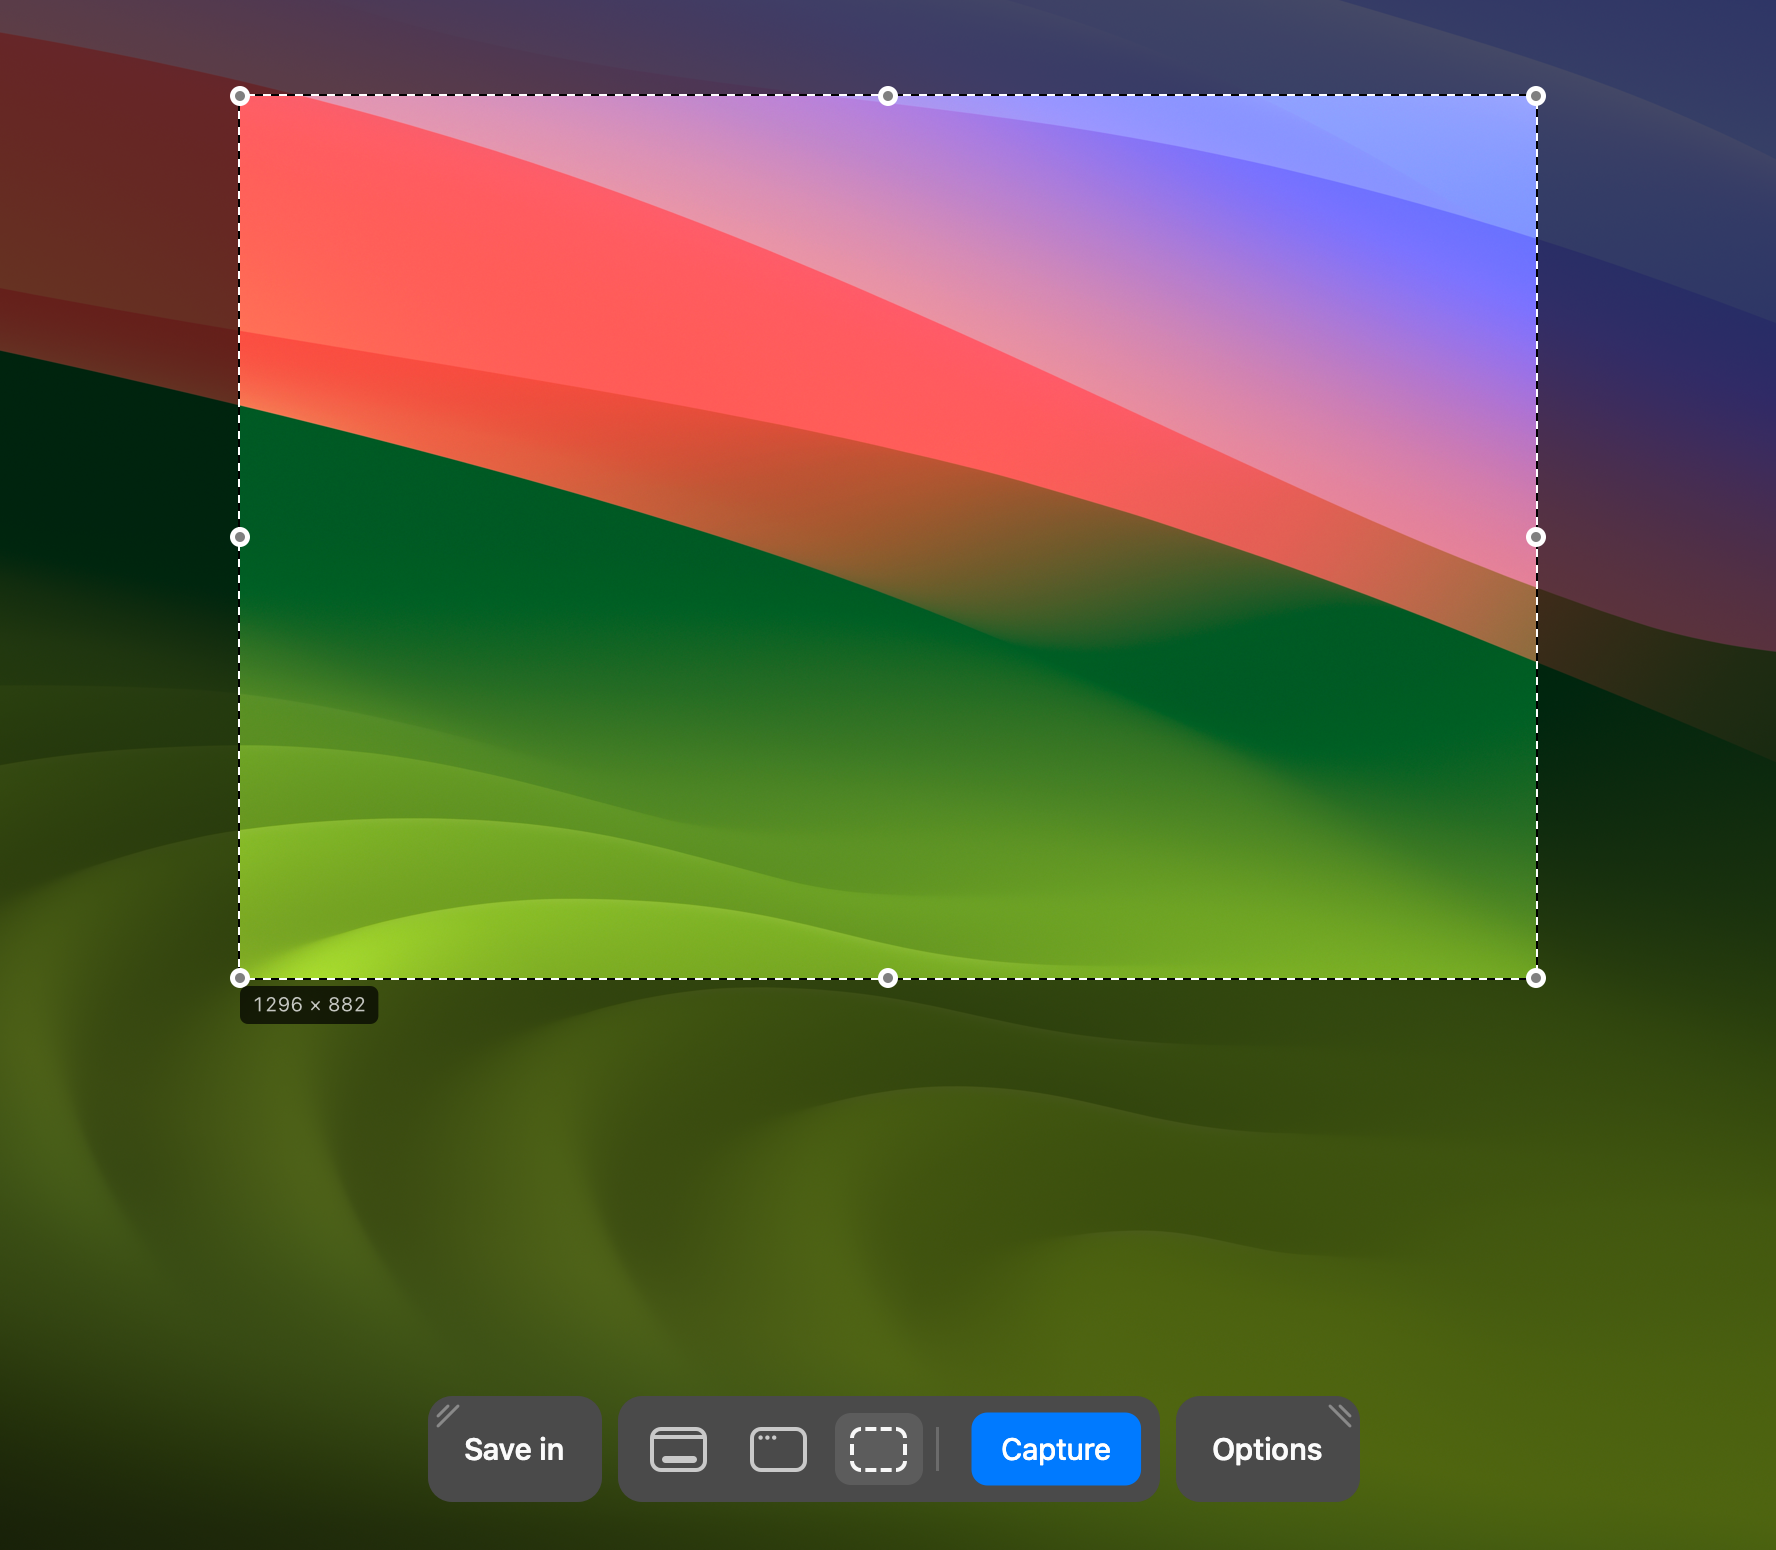
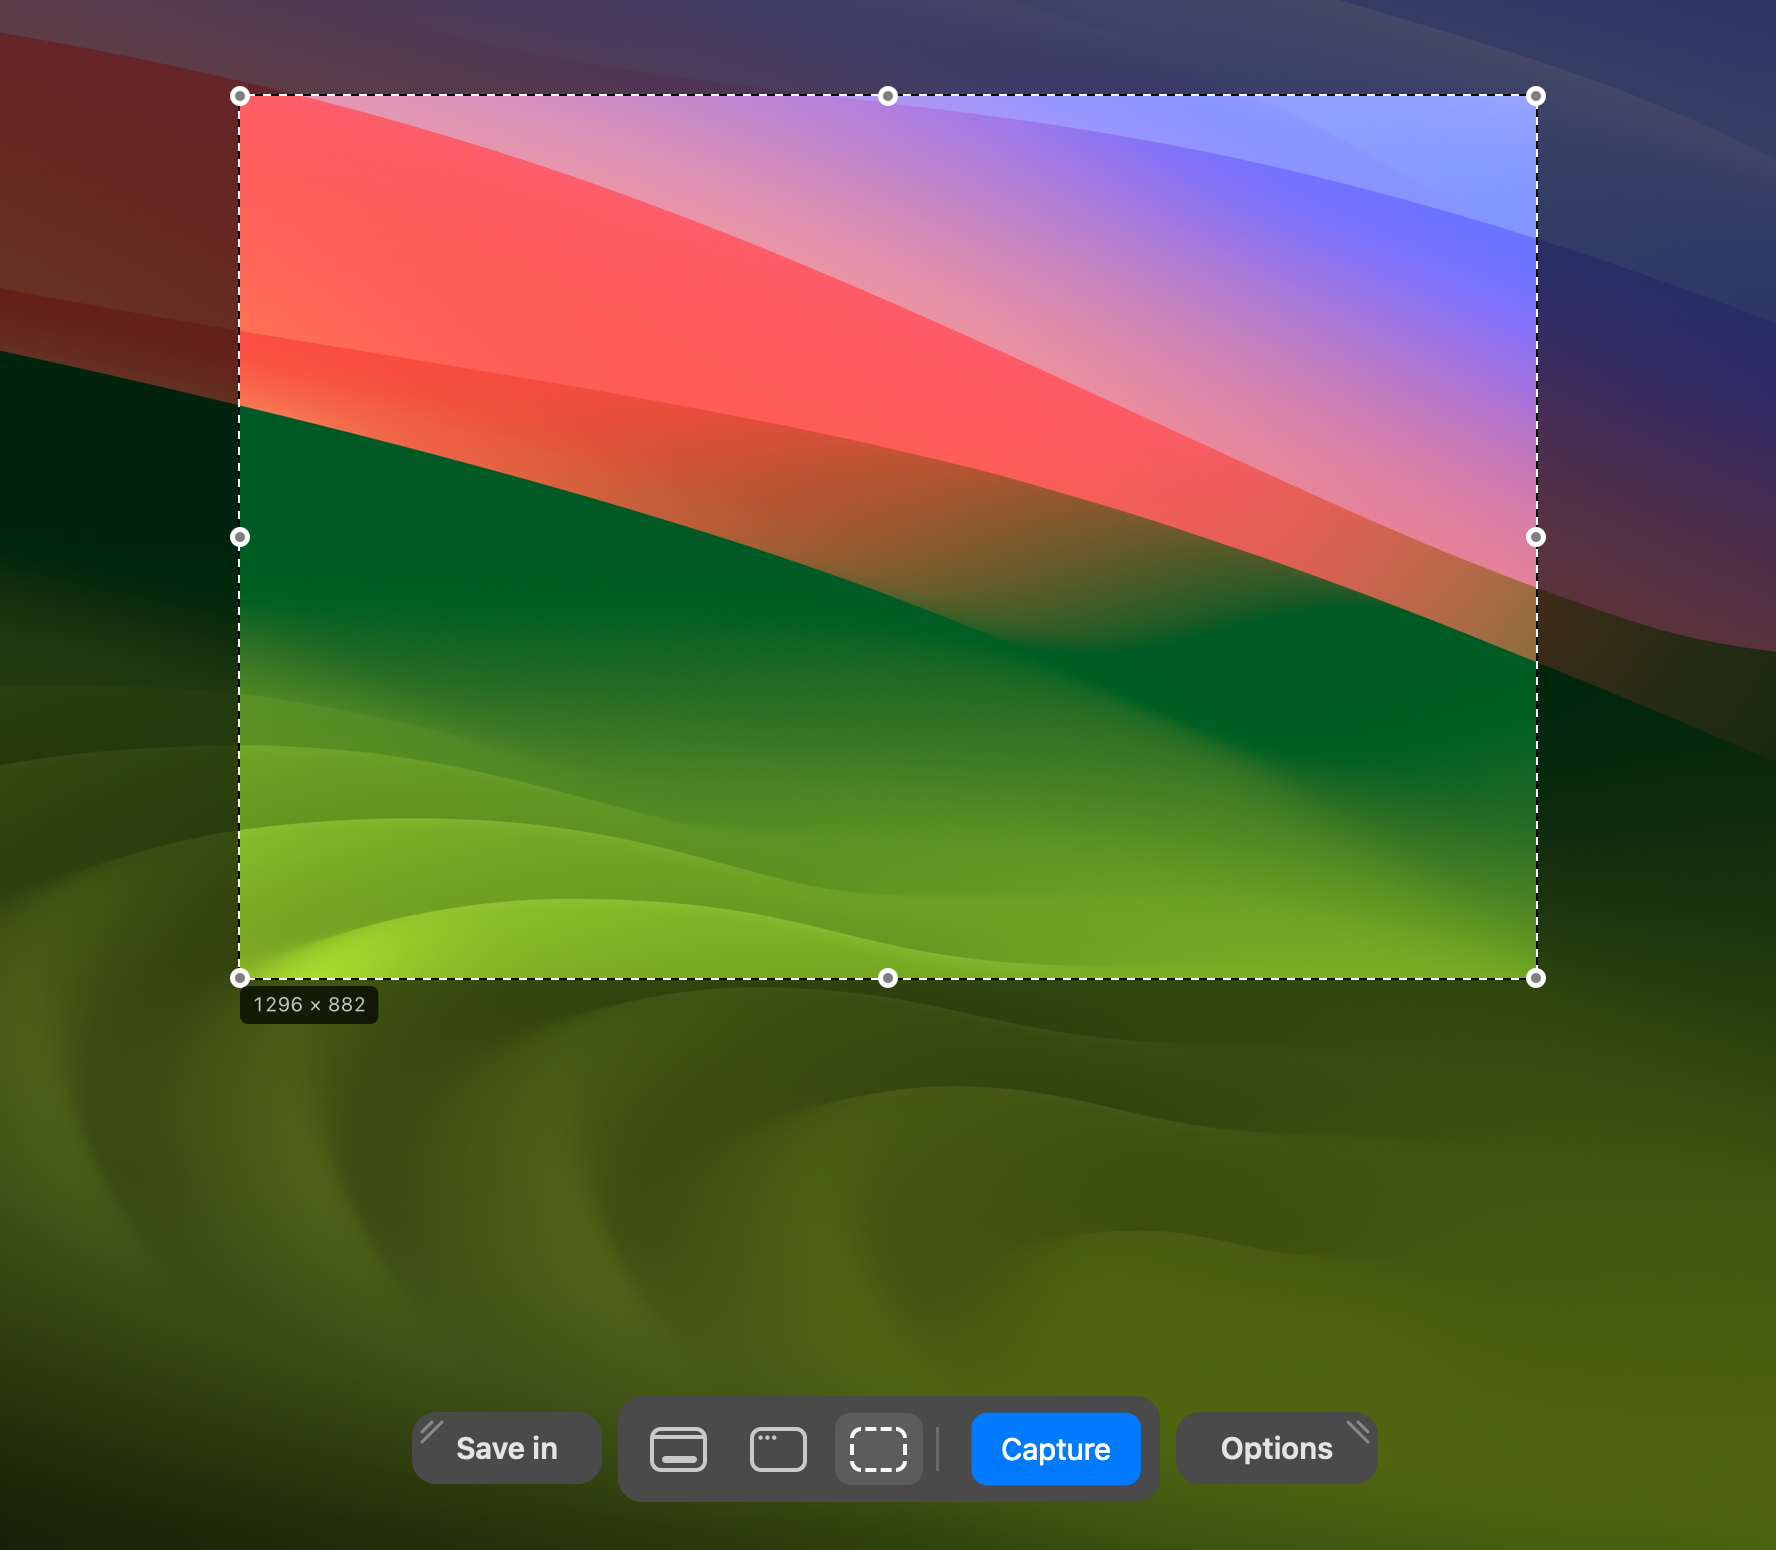
screenshot: shorter shrunk groups, their name glides to the header
Shrunk, Save in and Options are 36 pt tall (the buttons' height) and
centred on the bar. Opening, the name is no longer swapped for a faded-in
copy: one view draws it between its centred 15 pt place and the 11 pt
header, driven by an animated progress, so it slides and shrinks there
with the block. Reduce Motion skips the glide.

Changed region(s): [[0.6503, 0.8981, 0.7742, 0.991], [0.2168, 0.8981, 0.3407, 0.991]]

diff --git a/screenshot/Sources/Screenshot/Bar.swift b/screenshot/Sources/Screenshot/Bar.swift
@@ -100,10 +100,11 @@ final class Bar: NSPanel {
         if sections.map({ $0.hover(p) }).contains(true) { NSCursor.pointingHand.set() }
     }
 
-    /// 8 pt off each end, bottoms level: they grow upward and away from the bar.
+    /// 8 pt off each end, centred on the bar's height: they grow upward and away from it.
     private func placeSections() {
-        saveIn.anchor = CGPoint(x: frame.minX - 8, y: frame.minY)
-        options.anchor = CGPoint(x: frame.maxX + 8, y: frame.minY)
+        let y = frame.minY + ((Bar.height - Section.shutHeight) / 2).rounded()
+        saveIn.anchor = CGPoint(x: frame.minX - 8, y: y)
+        options.anchor = CGPoint(x: frame.maxX + 8, y: y)
         for s in sections { s.setFrame(s.target(s.expanded), display: false) }
     }
 
@@ -269,7 +270,7 @@ final class Section: NSPanel {
     private let name: String
     private let growsLeft: Bool
     private let items: () -> [Item]
-    private let label: NSTextField     // the name alone, while shrunk
+    private let label: Title           // the name: centred while shrunk, the header while open
     private let grip: Grip             // in the corner away from the bar, while shrunk
     /// A shortcut opens the block a moment, so the flip shows.
     private var peekUntil: CFTimeInterval = 0
@@ -278,7 +279,8 @@ final class Section: NSPanel {
     /// The x of the side facing the bar, and the bottom: what stays put as it grows.
     var anchor = CGPoint.zero
     private var openSize = CGSize.zero
-    private var shutSize: CGSize { CGSize(width: ceil(label.frame.width) + 32, height: Bar.height) }
+    static let shutHeight: CGFloat = 36
+    private var shutSize: CGSize { CGSize(width: ceil(label.width) + 44, height: Section.shutHeight) }
 
     static func saveIn() -> Section {
         Section("Save in", growsLeft: true) {
@@ -300,7 +302,7 @@ final class Section: NSPanel {
         self.name = name
         self.growsLeft = growsLeft
         self.items = items
-        label = NSTextField(labelWithString: name)
+        label = Title(name)
         grip = Grip(left: growsLeft)
         super.init(contentRect: .zero, styleMask: [.borderless, .nonactivatingPanel], backing: .buffered, defer: false)
         level = NSWindow.Level(rawValue: NSWindow.Level.screenSaver.rawValue + 1)
@@ -314,16 +316,12 @@ final class Section: NSPanel {
         collectionBehavior = [.canJoinAllSpaces, .fullScreenAuxiliary, .stationary, .ignoresCycle]
         let back = Ground()
         contentView = back
-        label.font = .systemFont(ofSize: 15, weight: .medium)
-        label.textColor = NSColor.labelColor.withAlphaComponent(0.85)
-        label.sizeToFit()
         setFrame(target(false), display: false)
-        label.setFrameOrigin(CGPoint(x: 16, y: ((Bar.height - label.frame.height) / 2).rounded()))
-        // Even margins stretch evenly: the name stays centred while it fades out.
-        label.autoresizingMask = [.minXMargin, .maxXMargin, .minYMargin, .maxYMargin]
+        label.frame = back.bounds
+        label.autoresizingMask = [.width, .height]
         // Pinned to the top and to the side by the bar, so the edges that move clip it.
         body.autoresizingMask = [.minYMargin, growsLeft ? .minXMargin : .maxXMargin]
-        grip.setFrameOrigin(CGPoint(x: growsLeft ? 0 : shutSize.width - grip.frame.width, y: Bar.height - grip.frame.height))
+        grip.setFrameOrigin(CGPoint(x: growsLeft ? 0 : shutSize.width - grip.frame.width, y: Section.shutHeight - grip.frame.height))
         grip.autoresizingMask = [.minYMargin, growsLeft ? .maxXMargin : .minXMargin]
         for v in [label, grip, body] as [NSView] {
             v.wantsLayer = true
@@ -356,13 +354,7 @@ final class Section: NSPanel {
         openSize = CGSize(width: max(width + 2 * Section.pad, shutSize.width), height: h)
         let size = contentView!.frame.size
         body.frame = CGRect(x: growsLeft ? size.width - openSize.width : 0, y: size.height - h, width: openSize.width, height: h)
-        let title = NSTextField(labelWithString: name)
-        title.font = .systemFont(ofSize: 11, weight: .semibold)
-        title.textColor = .secondaryLabelColor
-        title.sizeToFit()
         var y = h - Section.pad - Section.titleHeight
-        title.setFrameOrigin(CGPoint(x: Section.pad + 6, y: y + 3))
-        body.addSubview(title)
         for k in keys {
             y -= Section.row
             k.frame = CGRect(x: Section.pad, y: y, width: width, height: Section.row)
@@ -370,12 +362,12 @@ final class Section: NSPanel {
             y -= Section.gap
         }
         body.alphaValue = expanded ? 1 : 0
-        label.alphaValue = expanded ? 0 : 1
-        grip.alphaValue = label.alphaValue
+        label.progress = expanded ? 1 : 0
+        grip.alphaValue = expanded ? 0 : 1
     }
 
-    /// Grows to its rows or back to its name: an ease-out over 250 ms, the two crossfading;
-    /// Reduce Motion keeps the crossfade alone.
+    /// Grows to its rows or back to its name: an ease-out over 250 ms, the name gliding to the
+    /// header and the rows fading in; Reduce Motion keeps the fade alone.
     func expand(_ on: Bool, animated: Bool = true) {
         guard on != expanded || !animated else { return }
         expanded = on
@@ -383,18 +375,18 @@ final class Section: NSPanel {
         guard animated else {
             setFrame(f, display: true)
             body.alphaValue = on ? 1 : 0
-            label.alphaValue = on ? 0 : 1
-            grip.alphaValue = label.alphaValue
+            label.progress = on ? 1 : 0
+            grip.alphaValue = on ? 0 : 1
             return
         }
         let still = NSWorkspace.shared.accessibilityDisplayShouldReduceMotion
-        if still { setFrame(f, display: true) }
+        if still { setFrame(f, display: true); label.progress = on ? 1 : 0 }
         NSAnimationContext.runAnimationGroup { c in
             c.duration = 0.25
             c.timingFunction = CAMediaTimingFunction(name: .easeOut)
             if !still { animator().setFrame(f, display: true) }
             body.animator().alphaValue = on ? 1 : 0
-            label.animator().alphaValue = on ? 0 : 1
+            if !still { label.animator().progress = on ? 1 : 0 }
             grip.animator().alphaValue = on ? 0 : 1
         }
     }
@@ -462,6 +454,38 @@ private final class StripKey: NSView {
         NSColor.labelColor.withAlphaComponent(0.14).setFill()
         NSBezierPath(roundedRect: cap, xRadius: 5, yRadius: 5).fill()
         put(chord, attrs, in: cap)
+    }
+}
+
+/// A group's name, drawn at `progress` between centred at 15 pt (0) and the header's 11 pt in the
+/// top-left corner (1), so it glides there as the block opens rather than fading into a copy.
+private final class Title: NSView {
+    private let name: String
+    @objc dynamic var progress: CGFloat = 0 { didSet { needsDisplay = true } }
+
+    init(_ name: String) {
+        self.name = name
+        super.init(frame: .zero)
+    }
+    required init?(coder: NSCoder) { nil }
+
+    override static func defaultAnimation(forKey key: NSAnimatablePropertyKey) -> Any? {
+        key == "progress" ? CABasicAnimation() : super.defaultAnimation(forKey: key)
+    }
+
+    private func attrs(_ t: CGFloat) -> [NSAttributedString.Key: Any] {
+        [.font: NSFont.systemFont(ofSize: 15 - 4 * t, weight: .semibold),
+         .foregroundColor: NSColor.labelColor.withAlphaComponent(0.85 - 0.3 * t)]
+    }
+    var width: CGFloat { (name as NSString).size(withAttributes: attrs(0)).width }
+
+    override func draw(_ dirtyRect: NSRect) {
+        let t = min(max(progress, 0), 1)
+        let a = attrs(t)
+        let size = (name as NSString).size(withAttributes: a)
+        let shut = CGPoint(x: (bounds.width - size.width) / 2, y: (bounds.height - size.height) / 2)
+        let open = CGPoint(x: 14, y: bounds.height - 8 - 17)
+        (name as NSString).draw(at: CGPoint(x: shut.x + (open.x - shut.x) * t, y: shut.y + (open.y - shut.y) * t), withAttributes: a)
     }
 }
 
